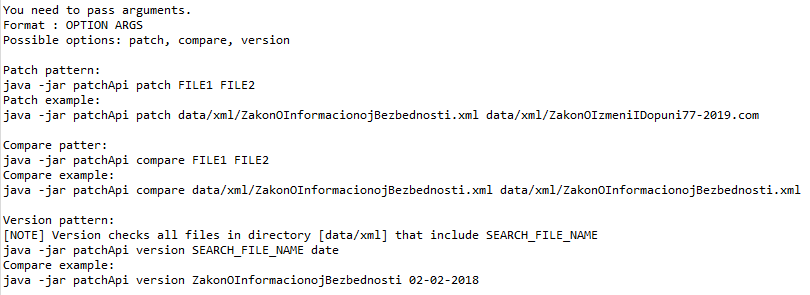
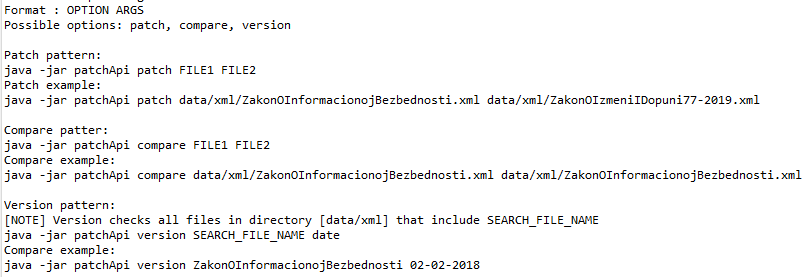
Image changed

Changed region(s): [[0.0, 0.0, 0.9639, 0.4332], [0.0, 0.722, 0.7463, 0.9819], [0.0, 0.4621, 0.995, 0.6643]]

diff --git a/src/source/patchApi.java b/src/source/patchApi.java
@@ -13,8 +13,8 @@ public class patchApi {
 //				,"data/xml/ZakonOIzmeniIDopuni77-2019.xml"};
 //		args =  new String[]{"compare","data/xml/ZakonOInformacionojBezbednosti1-v1.xml"
 //				,"data/xml/ZakonOInformacionojBezbednosti1-v2.xml"};
-		args =  new String[]{"version","Zakon"
-				,"02-02-2018"};
+//		args =  new String[]{"version","Zakon"
+//				,"02-02-2018"};
 
 		if(args.length == 0){
 			System.out.println();
@@ -25,7 +25,7 @@ public class patchApi {
 			System.out.println("Patch pattern:");
 			System.out.println("java -jar patchApi patch FILE1 FILE2");
 			System.out.println("Patch example:");
-			System.out.println("java -jar patchApi patch data/xml/ZakonOInformacionojBezbednosti.xml data/xml/ZakonOIzmeniIDopuni77-2019.com");
+			System.out.println("java -jar patchApi patch data/xml/ZakonOInformacionojBezbednosti.xml data/xml/ZakonOIzmeniIDopuni77-2019.xml");
 			System.out.println();
 			System.out.println("Compare patter:");
 			System.out.println("java -jar patchApi compare FILE1 FILE2");
